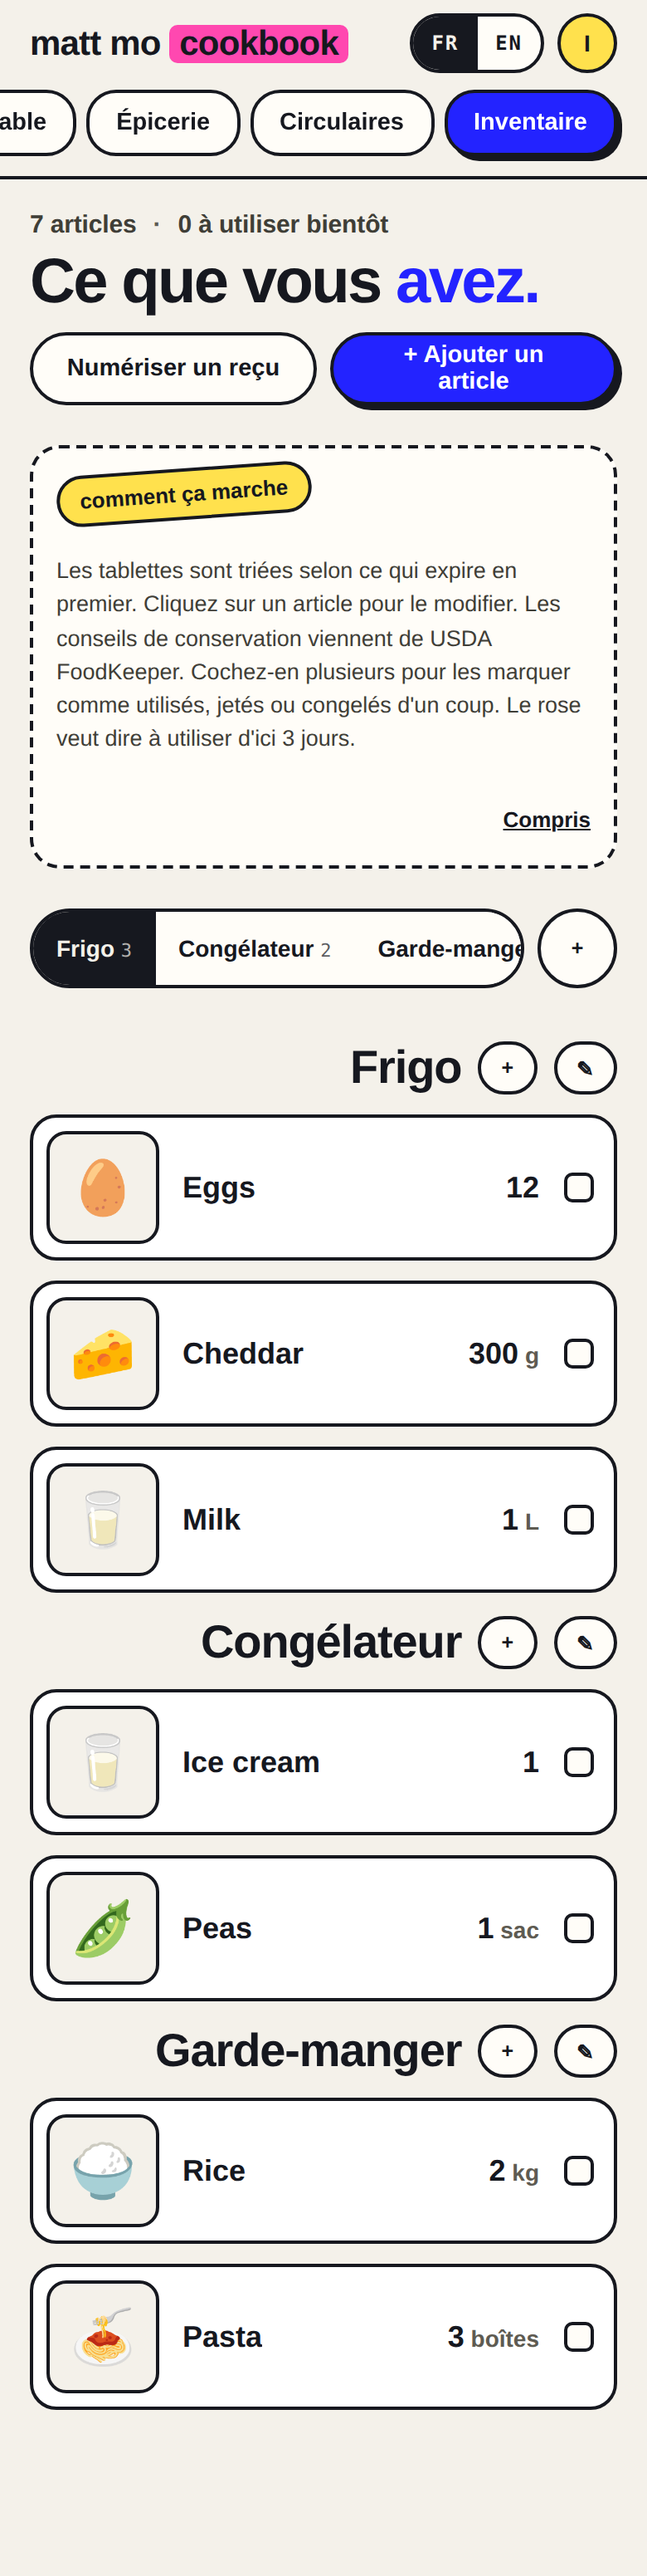
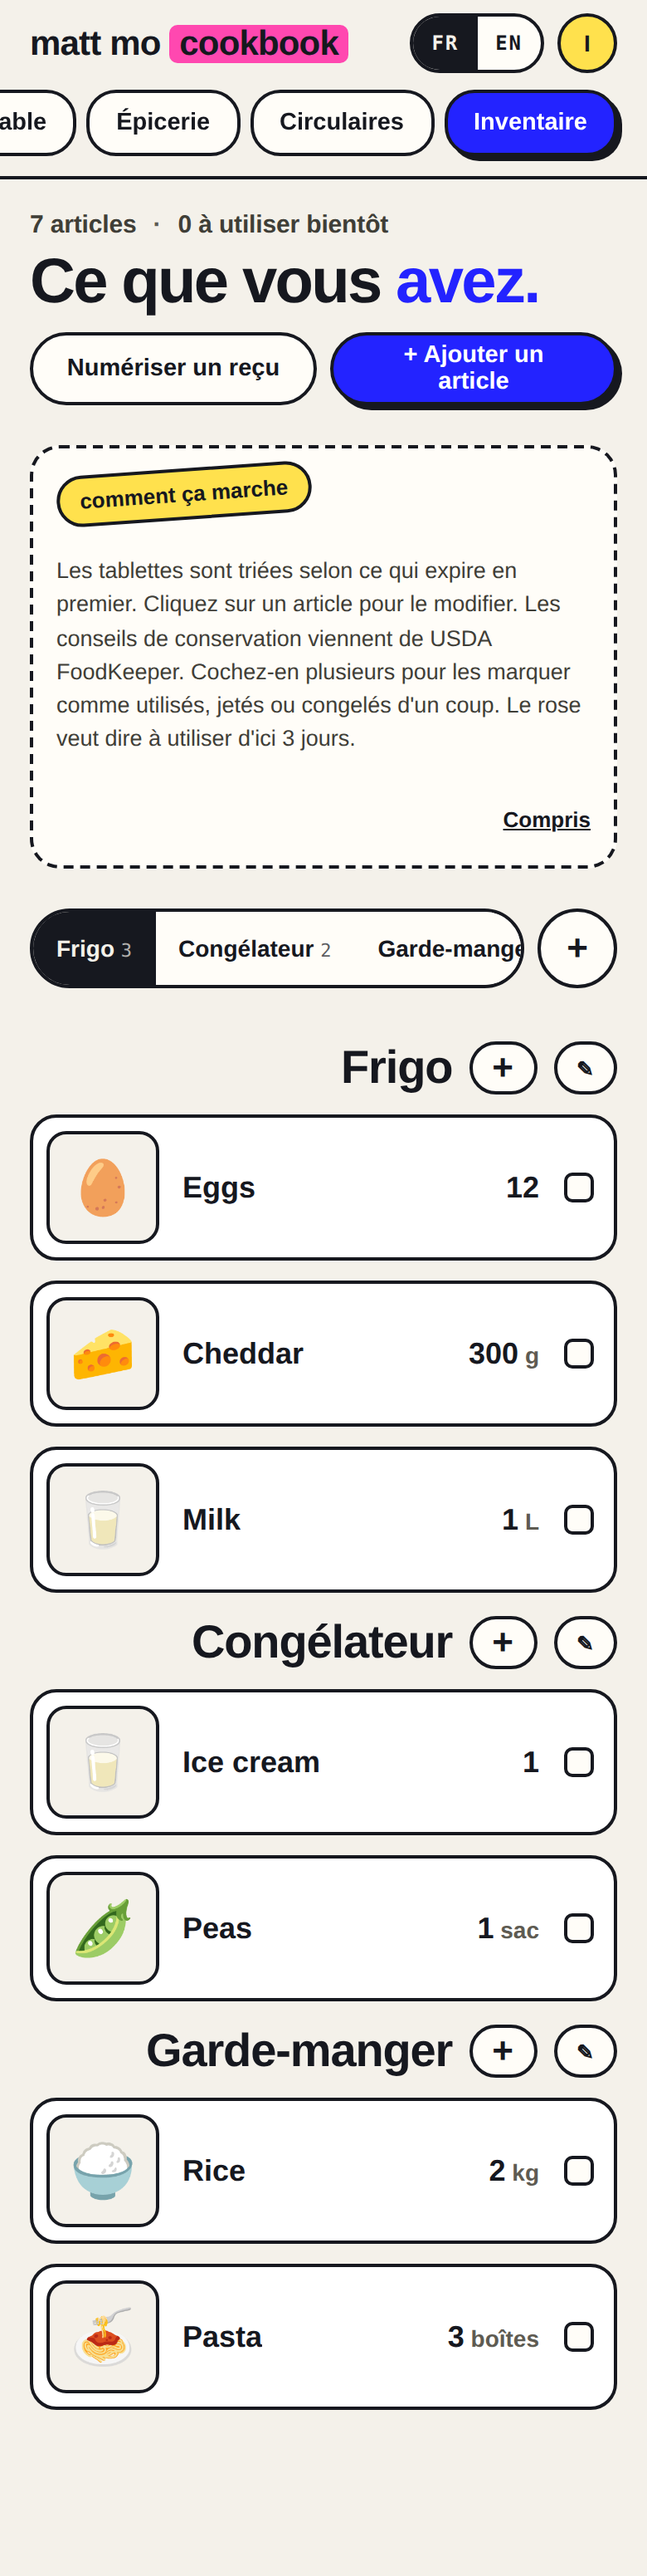
Inventory: a bigger + on the shelf pill's add button and on each shelf's add button
The + glyph is 22 px on both, the same on a computer and on a phone.

Claude-Session: https://claude.ai/code/session_01P6gKk3TQsEzWZVFPMy5Arm

Changed region(s): [[0.2154, 0.7737, 0.7692, 0.8046], [0.3077, 0.619, 0.8, 0.6499], [0.5231, 0.4023, 0.8, 0.4333]]

diff --git a/client/src/index.css b/client/src/index.css
@@ -1780,8 +1780,10 @@ select {
   padding: 0;
 }
 
-.inv-shelf-add {
-  font: 800 18px/1 var(--riso-font-display);
+/* The + that adds an item to a shelf, and the + beside the shelf pill that adds a
+   shelf: the same glyph size on a computer and on a phone. */
+.inv-shelf-edit.inv-shelf-add {
+  font: 800 22px/1 var(--riso-font-display);
 }
 
 .inv-shelf-add:hover,
@@ -11867,7 +11869,7 @@ button.riso-deal-detail-other:focus-visible {
   border: 2px solid var(--riso-ink);
   border-radius: 24px;
   background: var(--riso-surface);
-  font: 700 12.5px var(--riso-font-display);
+  font: 800 22px/1 var(--riso-font-display);
 }
 
 .riso-inv-shelf-bar button.add-shelf:hover {
